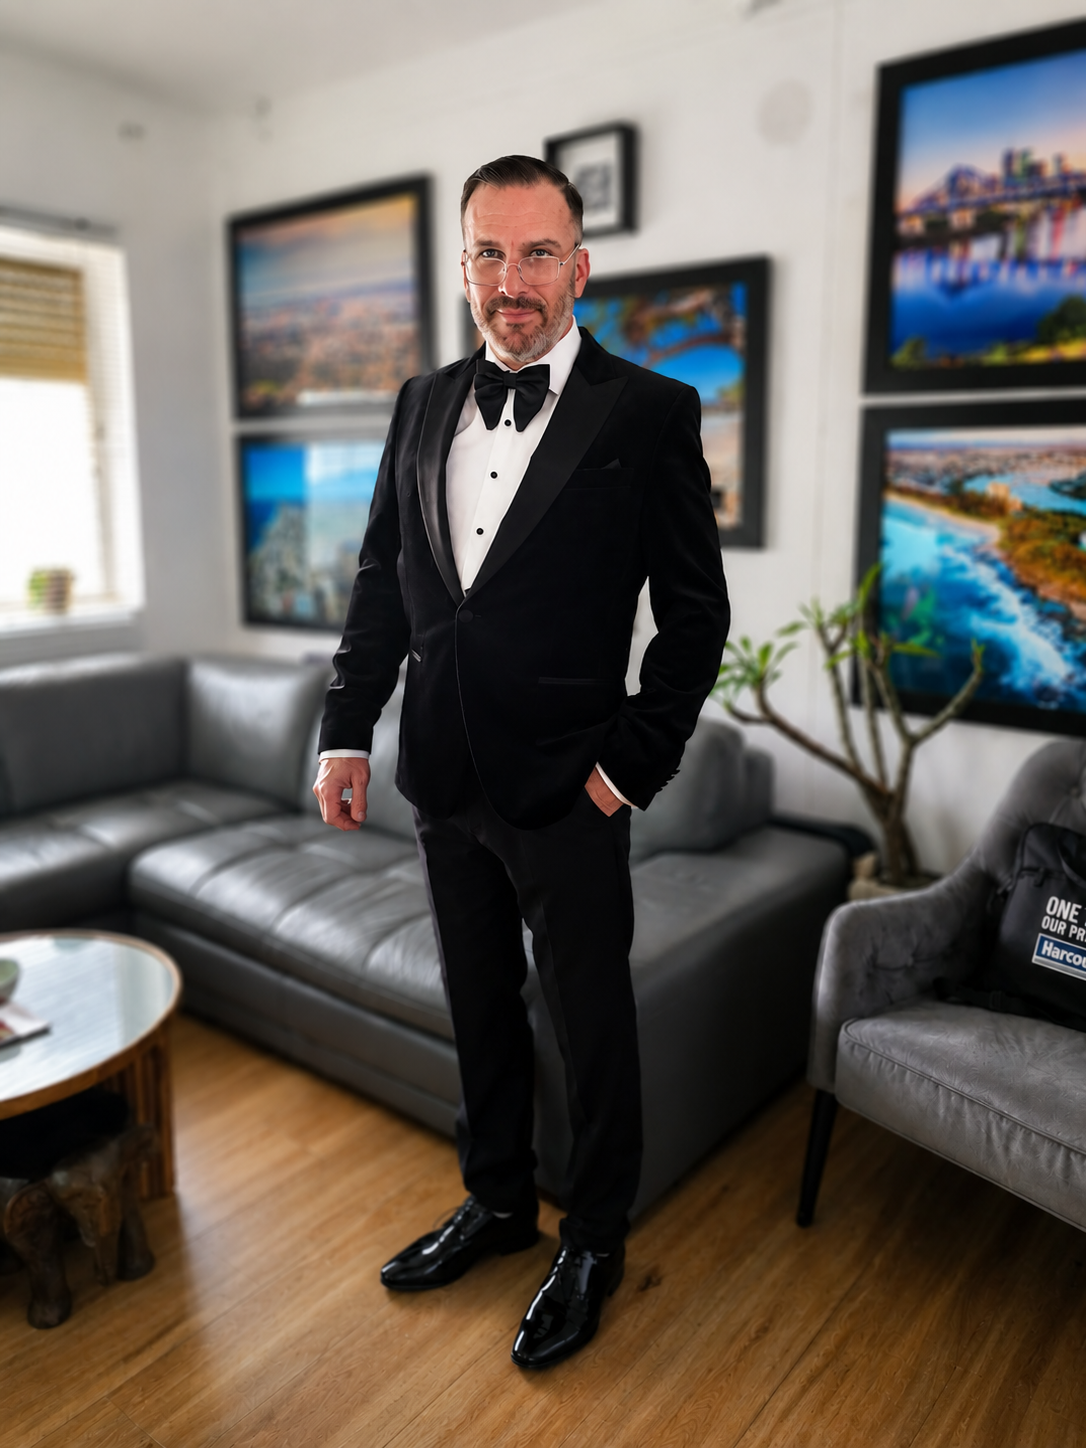
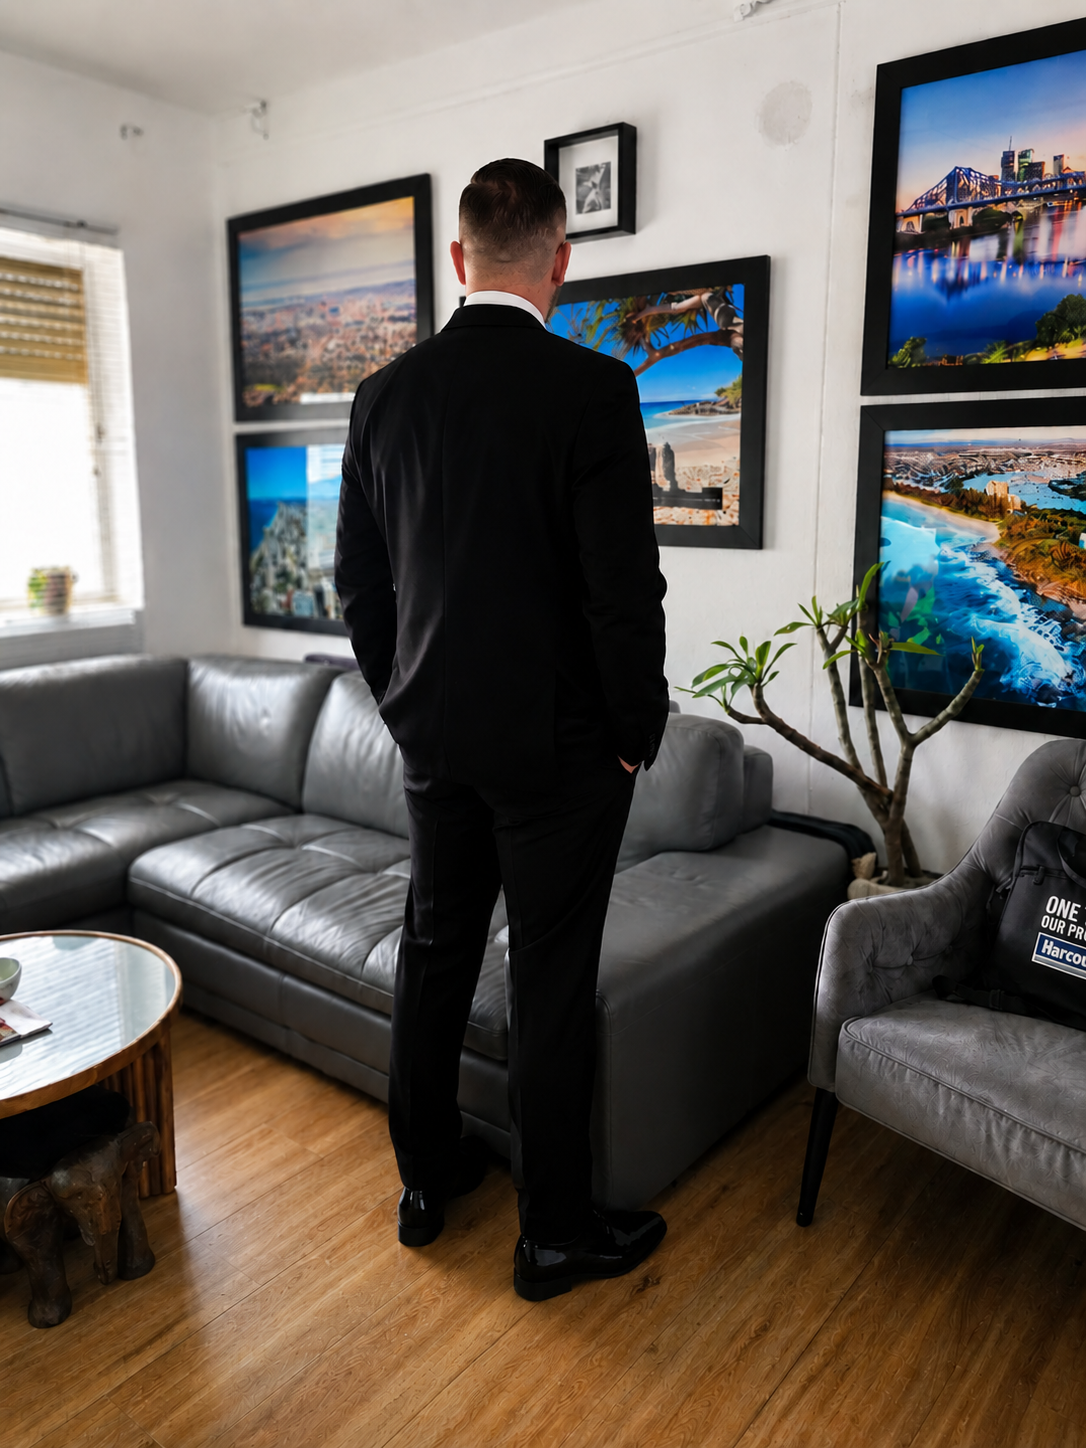
feat: update Nico Moretti hero image with new photo
Replaces the Stitch placeholder hero background with real photography.

diff --git a/app/saabai-changelog/SaabaiChangelogClient.tsx b/app/saabai-changelog/SaabaiChangelogClient.tsx
@@ -28,6 +28,12 @@ const TAG_STYLES: Record<Tag, { bg: string; text: string; border: string }> = {
 
 const CHANGELOG: Day[] = [
   {
+    date: "15 Jun 2026",
+    entries: [
+      { time: "23:19", tag: "NEW", title: "Auto-migrate legacy sites to Blob+Redis on editor open" }
+    ],
+  },
+  {
     date: "13 Jun 2026",
     entries: [
       { time: "16:17", tag: "UI", title: "Reduce Sign out font size to match email/role text" },

diff --git a/public/clients/nico-moretti/index.html b/public/clients/nico-moretti/index.html
@@ -162,7 +162,7 @@
 <section class="relative min-h-screen flex items-center justify-center pt-24 overflow-hidden">
 <!-- Background Image with Overlay -->
 <div class="absolute inset-0 z-0">
-<img alt="Nico Moretti in a full-body tailored tuxedo, standing poised with quiet confidence." class="w-full h-full object-cover opacity-60 object-top" src="/clients/nico-moretti/nico-moretti-standing.png"/>
+<img alt="Nico Moretti standing in a tailored black suit, viewed from behind, commanding presence." class="w-full h-full object-cover opacity-60 object-top" src="/clients/nico-moretti/nico-moretti-standing.png"/>
 <div class="absolute inset-0 bg-gradient-to-r from-background via-background/80 to-transparent"></div>
 <div class="absolute inset-0 bg-gradient-to-t from-background via-transparent to-transparent"></div>
 </div>